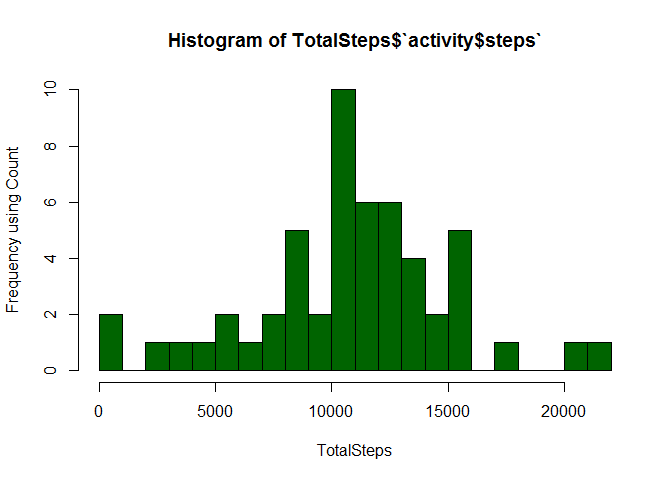
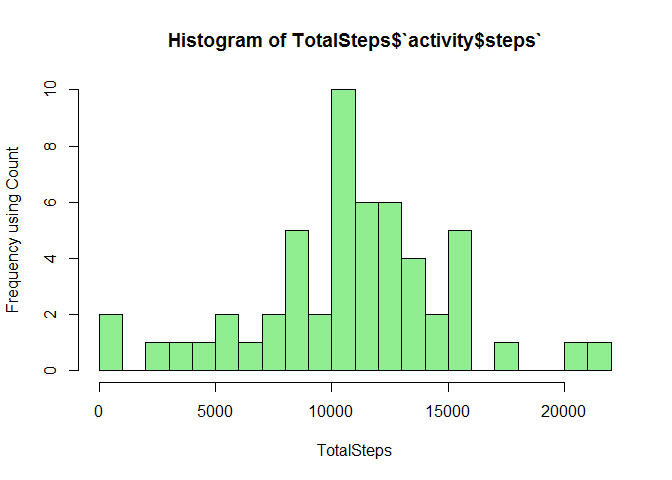
commit

Changed region(s): [[0.2188, 0.1875, 0.7812, 0.7812], [0.125, 0.6562, 0.1875, 0.7812], [0.8438, 0.6875, 0.9062, 0.7812]]

diff --git a/PA1_template.html b/PA1_template.html
@@ -100,8 +100,8 @@ head(activity)</code></pre>
 <div id="what-is-mean-total-number-of-steps-taken-per-day" class="section level2">
 <h2>What is mean total number of steps taken per day?</h2>
 <pre class="r"><code>TotalSteps &lt;- aggregate(activity$steps~activity$date, activity,sum)
-hist(TotalSteps$`activity$steps`,breaks= 25, ylab = &quot;Frequency using Count&quot;, xlab = &quot;TotalSteps&quot;,col=&quot;darkgreen&quot;)</code></pre>
[1 lines of base64/hex data omitted]
+hist(TotalSteps$`activity$steps`,breaks= 25, ylab = &quot;Frequency using Count&quot;, xlab = &quot;TotalSteps&quot;,col=&quot;lightgreen&quot;)</code></pre>
[1 lines of base64/hex data omitted]
 <pre class="r"><code>meanSteps&lt;- mean(TotalSteps$`activity$steps`)
 medianSteps&lt;- median(TotalSteps$`activity$steps`)
 paste(&quot;mean: &quot;,  meanSteps)</code></pre>
@@ -115,13 +115,16 @@ paste(&quot;mean: &quot;,  meanSteps)</code></pre>
 ggplot(Dailyaverage, aes(Dailyaverage$`activity$interval`, Dailyaverage$`activity$steps`)) +geom_line(color=&quot;blue&quot;) + ylab(&quot;Daily Views&quot;)</code></pre>
[1 lines of base64/hex data omitted]
 <pre class="r"><code>maxsteps&lt;- which.max(Dailyaverage[,2])
-maxinterval&lt;-Dailyaverage[maxsteps[1],1]</code></pre>
-<p>The Maximum steps attained interval 835</p>
+maxinterval&lt;-Dailyaverage[maxsteps[1],1]
+
+paste(&quot;The Maximum steps attained interval at :&quot;,maxinterval)</code></pre>
+<pre><code>## [1] &quot;The Maximum steps attained interval at : 835&quot;</code></pre>
 </div>
 <div id="imputing-missing-values" class="section level2">
 <h2>Imputing missing values</h2>
-<pre class="r"><code>TotalNA &lt;- sum(is.na(activity$steps))</code></pre>
-<p>Total Missing Values 2304</p>
+<pre class="r"><code>TotalNA &lt;- sum(is.na(activity$steps))
+paste(&quot;Total Missing Values &quot;,TotalNA)</code></pre>
+<pre><code>## [1] &quot;Total Missing Values  2304&quot;</code></pre>
 <pre class="r"><code>Stactivity &lt;- activity
 Stactivity$steps &lt;- impute(activity$steps,mean)
 TotalStepsst &lt;- aggregate(Stactivity$steps~Stactivity$date, Stactivity,sum)

diff --git a/PA1_template.md b/PA1_template.md
@@ -64,7 +64,7 @@ trimActivity<- na.omit(activity)
 
 ```r
 TotalSteps <- aggregate(activity$steps~activity$date, activity,sum)
-hist(TotalSteps$`activity$steps`,breaks= 25, ylab = "Frequency using Count", xlab = "TotalSteps",col="darkgreen")
+hist(TotalSteps$`activity$steps`,breaks= 25, ylab = "Frequency using Count", xlab = "TotalSteps",col="lightgreen")
 ```
 
 ![](PA1_template_files/figure-html/unnamed-chunk-2-1.png)
@@ -100,16 +100,27 @@ ggplot(Dailyaverage, aes(Dailyaverage$`activity$interval`, Dailyaverage$`activit
 ```r
 maxsteps<- which.max(Dailyaverage[,2])
 maxinterval<-Dailyaverage[maxsteps[1],1]
+
+paste("The Maximum steps attained interval at :",maxinterval)
 ```
-The Maximum steps attained interval 835
+
+```
+## [1] "The Maximum steps attained interval at : 835"
+```
+
 
 
 ## Imputing missing values
 
 ```r
 TotalNA <- sum(is.na(activity$steps))
+paste("Total Missing Values ",TotalNA)
 ```
-Total Missing Values 2304
+
+```
+## [1] "Total Missing Values  2304"
+```
+
 
 ```r
 Stactivity <- activity
